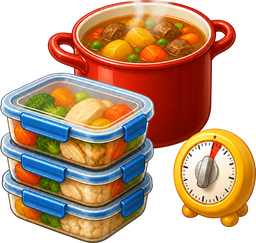
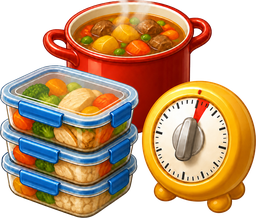
nova: El menú: persones per àpat (toc a la fila del dia), sense 1r/2n, rellotge més gran, icones a l'esquerra
Claude-Session: https://claude.ai/code/session_01U8Mmhj3w1kDHbZEJg4YuWh

diff --git a/nova/index.html b/nova/index.html
@@ -168,10 +168,14 @@ textarea.rbta{font:inherit;font-size:16px;min-height:110px;padding:12px 14px;res
 .algh{font-size:28px!important;margin:-6px 0 0!important}
 .agm{max-height:none;overflow:visible;margin-top:4px;gap:0 6px}.agm .at2{height:88px}.agm .at2 .pi{width:58px;height:58px}
 .at2.mes{color:#2f6b1f}
+.mday{cursor:pointer}.mc{position:relative;cursor:pointer}.mpx{position:absolute;right:6px;bottom:-1px;transform:translateY(50%);display:flex;align-items:center;gap:1px;font:800 10.5px var(--body);font-style:normal;color:#9a8b62;background:var(--crema);border-radius:99px;padding:0 5px 0 3px;pointer-events:none}.mpx svg{width:11px;height:11px}
+.paxr{display:flex;align-items:center;justify-content:space-between;padding:8px 4px}.paxr img{width:54px;height:54px}.paxr .pill b{min-width:44px;text-align:center;font-size:24px}
+.mgr{row-gap:9px!important}
+
 .mrow{display:flex;align-items:center;gap:4px}.mrow .dd{flex:1;min-width:0}
 .mok{flex:none;width:24px;height:24px;min-height:0;border-radius:50%;border:2px solid #cfc2a0;background:#fff;padding:0;box-shadow:none;font:800 13px var(--body);color:#fff;display:grid;place-items:center}.mok.on{background:var(--green);border-color:var(--green)}
 @media (max-height:720px){.mc{font-size:12.5px;padding:3px 6px;min-height:40px;gap:1px}.mok{width:20px;height:20px}.mib img{width:58px!important;height:58px!important}.mgr{gap:3px}}
-.mft{gap:18px;justify-content:center;padding-right:84px}.mib{background:none;border:0;padding:0;min-height:0;height:auto;box-shadow:none}.mib img{width:74px;height:74px;display:block;filter:drop-shadow(0 3px 5px rgba(0,0,0,.2))}
+.mft{gap:18px;justify-content:flex-start;padding:0 84px 0 18px}.mib{background:none;border:0;padding:0;min-height:0;height:auto;box-shadow:none}.mib img{width:74px;height:74px;display:block;filter:drop-shadow(0 3px 5px rgba(0,0,0,.2))}
 
 .mgr{display:grid;grid-template-columns:24px 1fr 1fr;gap:5px;align-items:stretch;overflow:auto;min-height:0;flex:1 1 auto;align-content:start}.mgr>b{font:700 12.5px var(--body);color:var(--mut);align-self:center}
 .mc{display:flex;flex-direction:column;justify-content:center;gap:3px;background:#fff8e8;border-radius:12px;padding:5px 8px;min-height:48px;font-size:13.5px;font-weight:600;line-height:1.15}.mc.no{align-items:center;color:#b9a87c;font-weight:700;background:none;border:2px dashed #e3d6b2}
@@ -516,8 +520,12 @@ function quiH(){initDisp();const q=Math.min(QSEL,S.mem.length-1),c=mcol(q);
  <button class="cap" data-a="capita" aria-label="Pregunta al Capità Enciam"><img src="img/capita_enciam.png" alt=""></button></div>`;}
 function genMenu(){initDisp();S.m2=JSON.parse(JSON.stringify(MENU2));S.moff=[];S.mok=[];S.menu=MENU0.map((r,i)=>r.map((x,j)=>S.disp[i][j].length?x:"—"));S.mview=1;render();}
 const MENU2=[[["Llenties estofades","Truita de carbassó"],["Crema de carbassa","Lluç a la planxa"]],[["Amanida verda","Arròs de verdures"],["Sopa de galets","Pollastre a la planxa"]],[["Cigrons amb espinacs","Bacallà al forn"],["Escudella","Carn d'olla"]],[["Mongetes amb pernil","Pollastre al forn"],["Amanida de cigrons","Truita francesa"]],[["Macarrons","Llom arrebossat"],["Sopa de peix","Calamars"]],[["Fideuà","Fruita"],["Verdura al vapor","Croquetes"]],[["Canelons","Rostit"],["Pa amb tomàquet","Embotit"]]];
+const PERS='<svg viewBox="0 0 24 24" aria-hidden="true"><circle cx="12" cy="8" r="4" fill="currentColor"/><path d="M4 21c0-4.4 3.6-7 8-7s8 2.6 8 7" fill="currentColor"/></svg>';
+function pax(i,j){return (S.pax&&S.pax[i]&&S.pax[i][j]!=null)?S.pax[i][j]:S.disp[i][j].length;}
+function paxH(i){const DF=["Dilluns","Dimarts","Dimecres","Dijous","Divendres","Dissabte","Diumenge"];return `<h3>${DF[i]}</h3>${[0,1].map(j=>`<div class="paxr"><img src="img/${j?"ic_lluna":"ic_sol"}.png" alt="${j?"Sopar":"Dinar"}"><span class="pill"><button data-paxd="${i}:${j}:-1" aria-label="Menys">−</button><b>${pax(i,j)}</b><button data-paxd="${i}:${j}:1" aria-label="Més">+</button></span></div>`).join("")}`;}
+function paxRef(i){const sh=document.querySelector(".dim .sheet");if(!sh)return;const g=sh.querySelector(".grabz");sh.innerHTML="";sh.appendChild(g);sh.insertAdjacentHTML("beforeend",paxH(i));}
 function menuH(){const D=S.m2;let g=`<span></span><span class="qoh"><img src="img/ic_sol.png" alt="Dinar"></span><span class="qoh"><img src="img/ic_lluna.png" alt="Sopar"></span>`;
- DIES.forEach((d,i)=>{g+=`<b>${d}</b>`;[0,1].forEach(j=>{if(!S.disp[i][j].length){g+=`<span class="mc no">fora</span>`;return;}g+=`<span class="mc">${D[i][j].map((x,k)=>`<div class="mrow"><p class="dd${(S.moff||[]).includes(i+":"+j+":"+k)?" off":""}" data-dd="${i}:${j}:${k}"><u>${k?"2n":"1r"}</u><span>${esc(x)}</span></p><button class="mok${(S.mok||[]).includes(i+":"+j+":"+k)?" on":""}" data-mok="${i}:${j}:${k}" aria-label="Valida o canvia">${(S.mok||[]).includes(i+":"+j+":"+k)?"✓":""}</button></div>`).join("")}</span>`;});});
+ DIES.forEach((d,i)=>{g+=`<b class="mday" data-pax="${i}">${d}</b>`;[0,1].forEach(j=>{if(!S.disp[i][j].length){g+=`<span class="mc no" data-pax="${i}">fora</span>`;return;}g+=`<span class="mc" data-pax="${i}"><i class="mpx">${PERS}${pax(i,j)}</i>${D[i][j].map((x,k)=>`<div class="mrow"><p class="dd${(S.moff||[]).includes(i+":"+j+":"+k)?" off":""}" data-dd="${i}:${j}:${k}"><span>${esc(x)}</span></p><button class="mok${(S.mok||[]).includes(i+":"+j+":"+k)?" on":""}" data-mok="${i}:${j}:${k}" aria-label="Valida o canvia">${(S.mok||[]).includes(i+":"+j+":"+k)?"✓":""}</button></div>`).join("")}</span>`;});});
  return `<div class="kc qv"><div class="khdr"><button class="kesp" data-a="joc" aria-label="Espigues: 175"><img src="img/hud_sitja.png" alt="">175</button><button class="gear" data-tab="cuina" aria-label="A l'inici"><svg viewBox="0 0 24 24" aria-hidden="true"><circle cx="12" cy="12" r="12" fill="#1f3a5f"/><path d="M6.5 11.6 12 7l5.5 4.6M8.2 10.3V17h2.9v-3.6h1.8V17h2.9v-6.7" fill="none" stroke="#fff" stroke-width="1.6" stroke-linecap="round" stroke-linejoin="round"/></svg></button></div><div class="qhero"><img src="img/taula_hero.jpg" alt=""><h2 class="qtt">El menú</h2></div>
  <div class="qbd"><div class="mgr">${g}</div><div class="qft mft"><button class="mib" data-a="fesllista" aria-label="Fes la llista de la compra"><img src="img/icona_compra.png" alt=""></button><button class="mib" data-a="batch" aria-label="Planifica el cuinat de la setmana"><img src="img/batch_cooking.png" alt=""></button></div></div>
  <button class="cap" data-a="capita" aria-label="Pregunta al Capità Enciam"><img src="img/capita_enciam.png" alt=""></button></div>`;}
@@ -626,7 +634,8 @@ document.addEventListener("input",e=>{const t=e.target;if(t.id==="mq"){MQ=t.valu
  if(t.id==="pr"){S.prov=t.value;S.muni="";render();setTimeout(()=>{const m=$("#mu");if(m)m.focus();},50);return;}
  if(t.id==="mu"){S.muni=t.value;const hit=(MU.m[S.prov]||[]).find(m=>norm(m)===norm(t.value));if(hit){S.muni=hit;}$("#mul").innerHTML=muniL();}
  const b=document.querySelector('.ff .cta');if(b&&S.onb<99){b.disabled=!okStep(S.onb);}});
-document.addEventListener("click",e=>{const t=e.target.closest("button");if(!t){if(ALP&&!e.target.closest(".alpop")){ALP=null;document.querySelectorAll(".alpop").forEach(x=>x.remove());}return;}const a=t.dataset.a;
+document.addEventListener("click",e=>{const pr=e.target.closest("[data-pax]");if(pr&&!e.target.closest(".dd,.mok,button")){const i=+pr.dataset.pax;sheet(paxH(i));SHCB=()=>render();return;}const t=e.target.closest("button");if(!t){if(ALP&&!e.target.closest(".alpop")){ALP=null;document.querySelectorAll(".alpop").forEach(x=>x.remove());}return;}const a=t.dataset.a;
+ if(t.dataset.paxd){const[i,j,d]=t.dataset.paxd.split(":").map(Number);S.pax=S.pax||DIES.map(()=>[null,null]);S.pax[i][j]=Math.max(0,Math.min(20,pax(i,j)+d));saveS();paxRef(i);return;}
  if(t.dataset.mok){const id=t.dataset.mok,[i,j,k]=id.split(":").map(Number);S.mok=S.mok||[];const nm=S.m2[i][j][k];sheet(`<h3>${esc(nm)}</h3><button class="opt" data-mokv="${id}">✓ El fem així</button><p class="mut" style="margin:6px 0 0">O canvia'l per:</p>${ALTS.filter(x=>x!==nm).slice(0,3).map(x=>`<button class="opt" data-mchg="${id}|${esc(x)}">${esc(x)}</button>`).join("")}`);return;}
  if(t.dataset.mokv){const id=t.dataset.mokv;S.mok=S.mok||[];if(!S.mok.includes(id))S.mok.push(id);close();render();return;}
  if(t.dataset.mchg){const[id,x]=t.dataset.mchg.split("|"),[i,j,k]=id.split(":").map(Number);S.m2[i][j][k]=x;S.mok=(S.mok||[]).filter(z=>z!==id);S.mok.push(id);close();render();return;}
